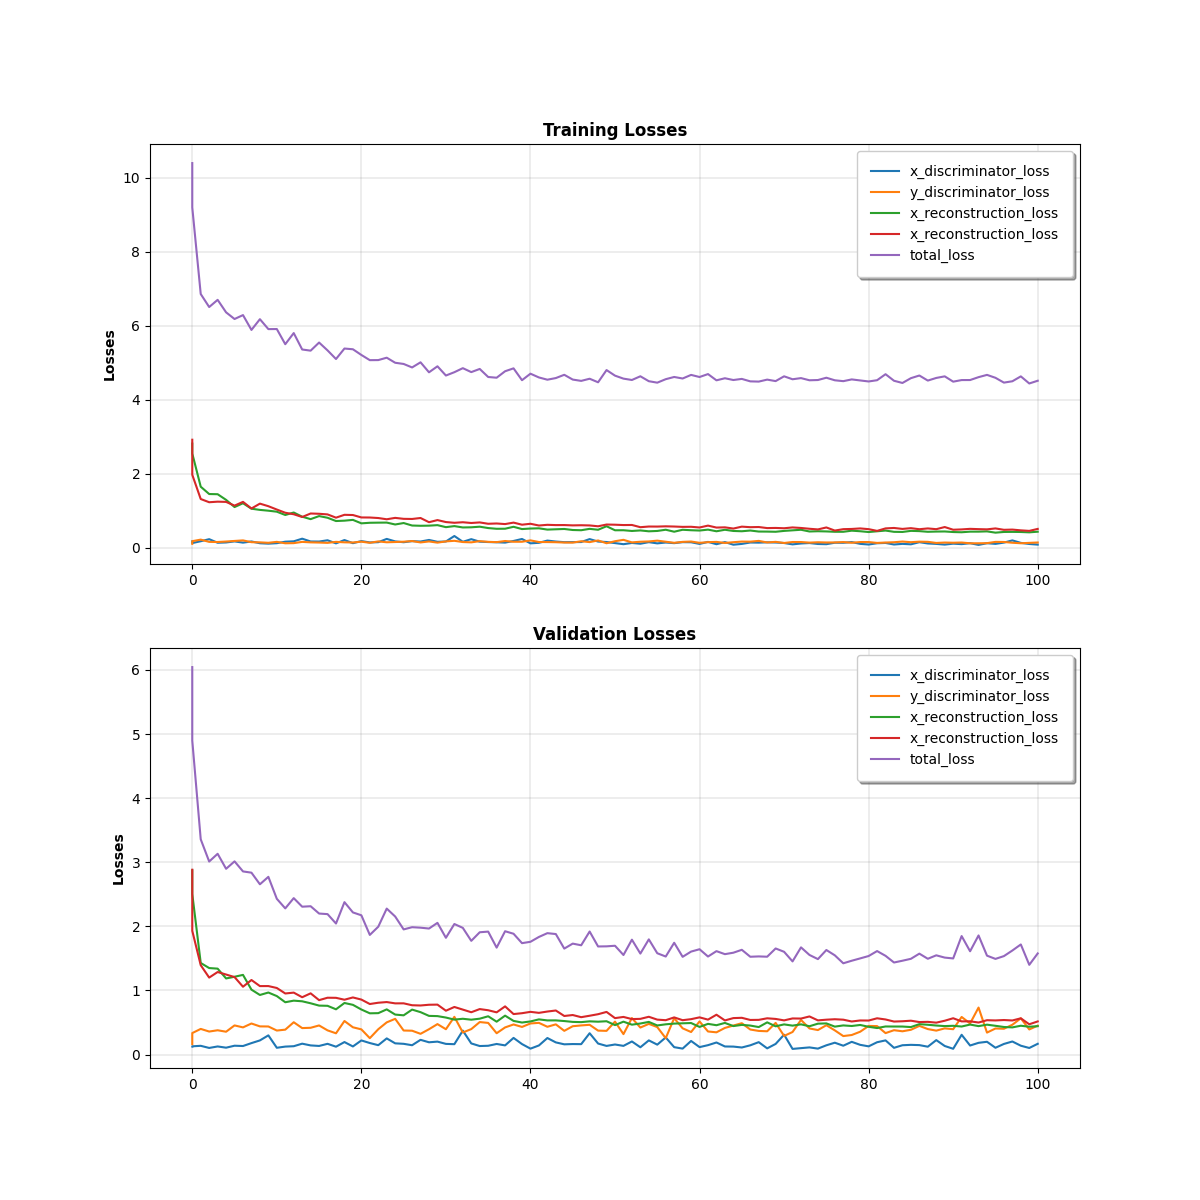
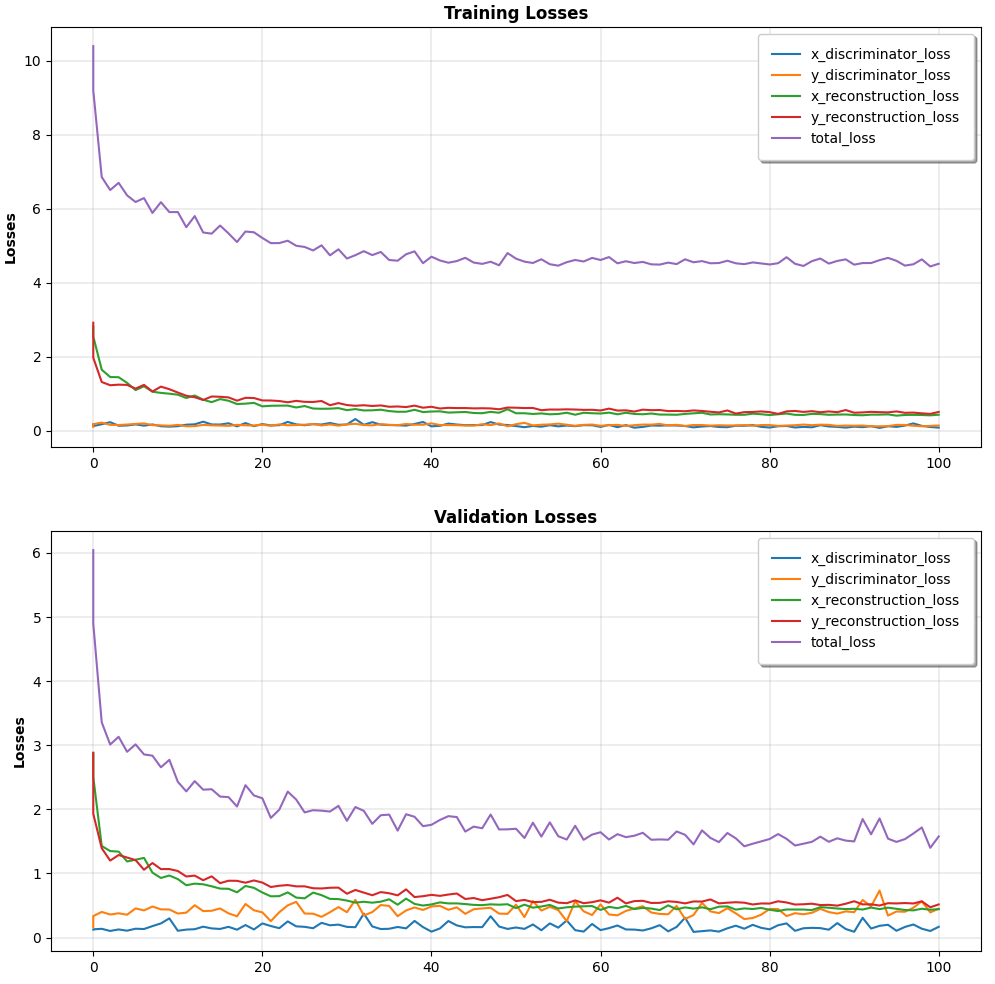
update loss plot

diff --git a/plotLoss.py b/plotLoss.py
@@ -43,7 +43,7 @@ def plot_losses():
     ax[0].plot(epoch, recon_X_loss)
     ax[0].plot(epoch, recon_Y_loss)
     ax[0].plot(epoch, total_loss)
-    ax[0].legend(['x_discriminator_loss','y_discriminator_loss','x_reconstruction_loss','x_reconstruction_loss','total_loss'], loc='upper right', fancybox=True, framealpha=1., shadow=True, borderpad=1)
+    ax[0].legend(['x_discriminator_loss','y_discriminator_loss','x_reconstruction_loss','y_reconstruction_loss','total_loss'], loc='upper right', fancybox=True, framealpha=1., shadow=True, borderpad=1)
     ax[0].set_ylabel('Losses', fontweight='bold')
     # validation losses
     ax[1].set_title('Validation Losses', fontweight='bold')
@@ -53,7 +53,7 @@ def plot_losses():
     ax[1].plot(epoch, valid_recon_X_loss)
     ax[1].plot(epoch, valid_recon_Y_loss)
     ax[1].plot(epoch, valid_total_loss)
-    ax[1].legend(['x_discriminator_loss','y_discriminator_loss','x_reconstruction_loss','x_reconstruction_loss','total_loss'], loc='upper right', fancybox=True, framealpha=1., shadow=True, borderpad=1)
+    ax[1].legend(['x_discriminator_loss','y_discriminator_loss','x_reconstruction_loss','y_reconstruction_loss','total_loss'], loc='upper right', fancybox=True, framealpha=1., shadow=True, borderpad=1)
     ax[1].set_ylabel('Losses', fontweight='bold')
     # plot metrics and save
     plt.savefig('media/losses.png')
